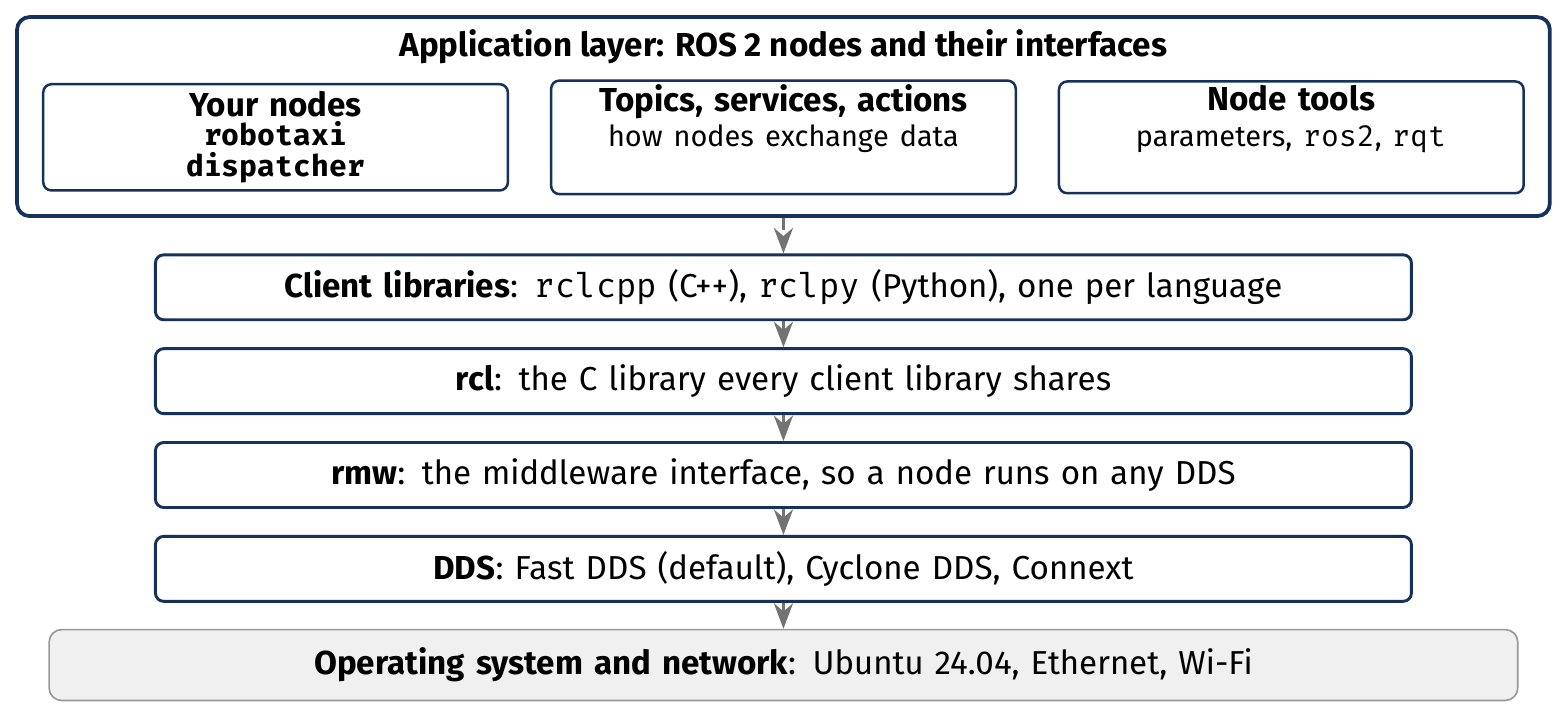
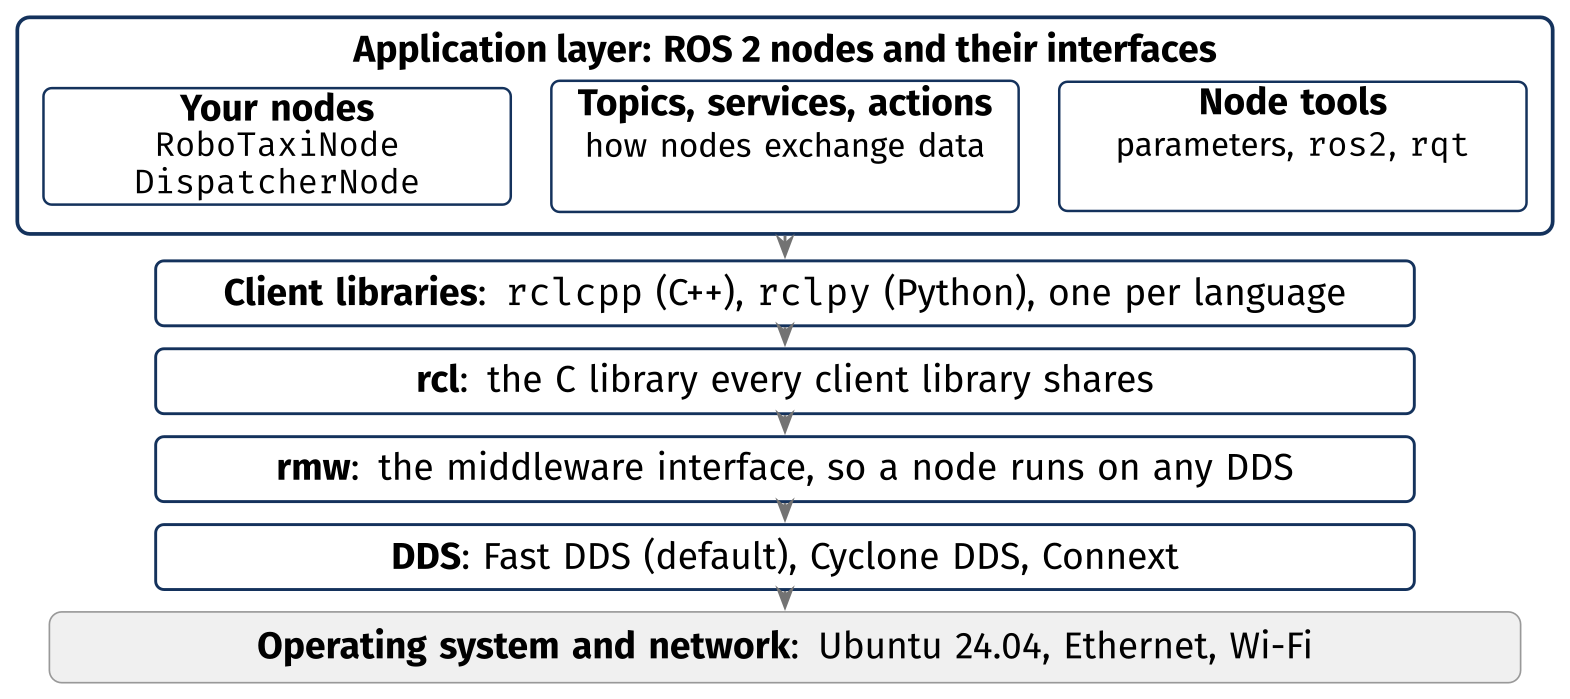
L10: how to read the ROS 2 layers; the distance to the pickup in one line
The layers section gets the deck's figure and a How to read it
paragraph quoting the ROS 2 Internal Interfaces page. The hypot
explanation becomes one sentence, as in the deck.

Changed region(s): [[0.0, 0.0, 1.0, 0.9614]]

diff --git a/docs/source/lectures/lecture10/l10_lecture.rst b/docs/source/lectures/lecture10/l10_lecture.rst
@@ -241,13 +241,19 @@ What Runs under Your Node: the ROS 2 Layers
 ^^^^^^^^^^^^^^^^^^^^^^^^^^^^^^^^^^^^^^^^^^^
 
 .. figure:: /_static/images/l10/ros2_layers.png
-   :alt: A layered diagram, top to bottom, with a dashed arrow from each layer down to the next. At the top, a wide box, the application layer, holds three boxes: your nodes, robotaxi and dispatcher; topics, services and actions; node tools, parameters, ros2 and rqt. Below it: client libraries, rclcpp for C++ and rclpy for Python, one per language; rcl, the C library every client library shares; rmw, the middleware interface, so a node runs on any DDS; DDS, the middleware, Fast DDS by default, Cyclone DDS or Connext. At the bottom, a wide gray band: the operating system and the network, Ubuntu 24.04, Ethernet and Wi-Fi.
+   :alt: A layered diagram, top to bottom, with a dashed arrow from each layer down to the next. At the top, a wide box, the application layer, holds three boxes: your nodes, RoboTaxiNode and DispatcherNode; topics, services and actions; node tools, parameters, ros2 and rqt. Below it: client libraries, rclcpp for C++ and rclpy for Python, one per language; rcl, the C library every client library shares; rmw, the middleware interface, so a node runs on any DDS; DDS, the middleware, Fast DDS by default, Cyclone DDS or Connext. At the bottom, a wide gray band: the operating system and the network, Ubuntu 24.04, Ethernet and Wi-Fi.
    :align: center
    :width: 100%
 
    The layers under a ROS 2 node, from the application down to the network.
 
-You write only the top layer: your nodes. The layers below let the same node run on any DDS without a code change (``rmw``), and let a C++ node and a Python node exchange the same messages (``rcl``). **Middleware** is software that finds other programs and moves data between them. Source: `ROS 2 Jazzy: Internal ROS 2 interfaces <https://docs.ros.org/en/jazzy/Concepts/Advanced/About-Internal-Interfaces.html>`_.
+**How to read it:** top to bottom, each layer uses the one below it (the dashed arrows). The ROS 2 documentation says the APIs "are stacked such that the typical ROS user will use the client library API, e.g. rclcpp"; the client libraries "use the rcl interface", and "the rcl implementation in turn uses the rmw API" (`Internal ROS 2 interfaces <https://docs.ros.org/en/jazzy/Concepts/Advanced/About-Internal-Interfaces.html>`_).
+
+- You write only the top layer: your nodes.
+- ``rcl``, shared by every client library, lets a C++ node and a Python node exchange the same messages.
+- ``rmw`` lets the same node run on any DDS without a code change.
+
+**Middleware** is software that finds other programs and moves data between them. Source: `ROS 2 Jazzy: Internal ROS 2 interfaces <https://docs.ros.org/en/jazzy/Concepts/Advanced/About-Internal-Interfaces.html>`_.
 
 What DDS Does: Find the Nodes, Move the Messages
 ^^^^^^^^^^^^^^^^^^^^^^^^^^^^^^^^^^^^^^^^^^^^^^^^
@@ -2116,11 +2122,7 @@ The Callback: the Distance to the Pickup Point
                                       << distance << " m from the pickup");
    }
 
-``std::hypot(a, b)``, from ``<cmath>``, is the square root of a\ :sup:`2` + b\ :sup:`2`. For the message ``{x: 7.0, y: 4.0}`` of ``ros2 topic pub``:
-
-1. The robotaxi is 10 − 7 = 3 m short of the pickup point in x, and 4 m away from it in y.
-2. 3\ :sup:`2` + 4\ :sup:`2` = 9 + 16 = 25.
-3. The square root of 25 is 5, so the dispatcher prints ``RoboTaxi at x = 7, 5 m from the pickup``.
+``std::hypot(a, b)``, from ``<cmath>``, is the square root of a\ :sup:`2` + b\ :sup:`2`. For ``{x: 7.0, y: 4.0}``, the robotaxi is 3 m from the pickup in x and 4 m in y: the square root of 9 + 16 is 5, so the dispatcher prints ``RoboTaxi at x = 7, 5 m from the pickup``.
 
 .. warning::
 
